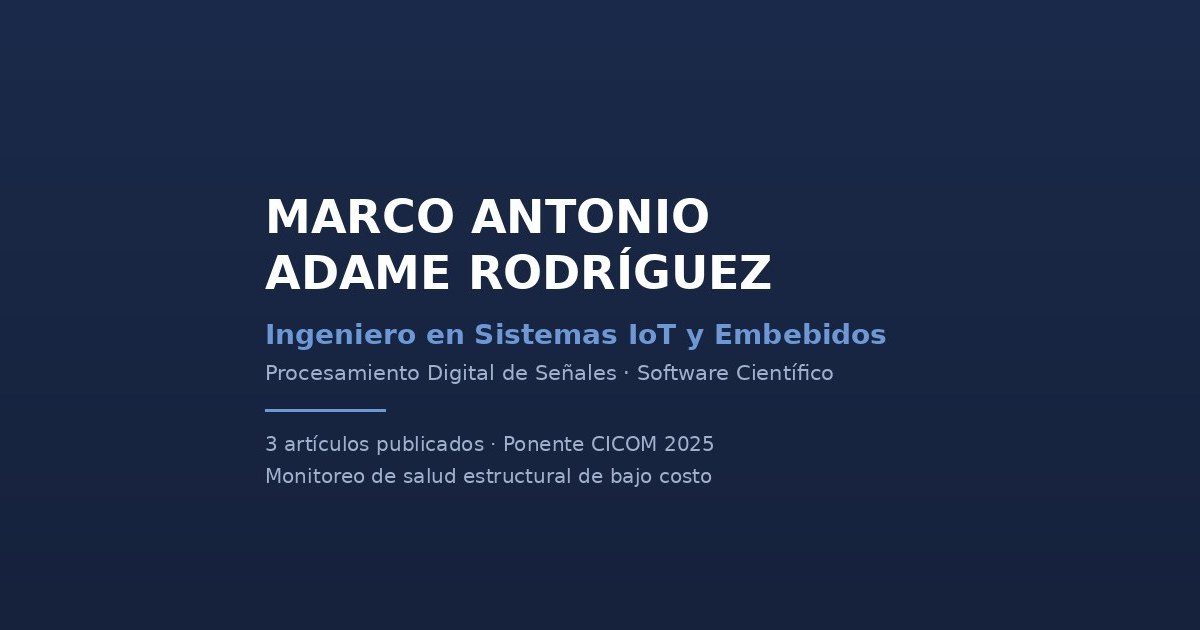
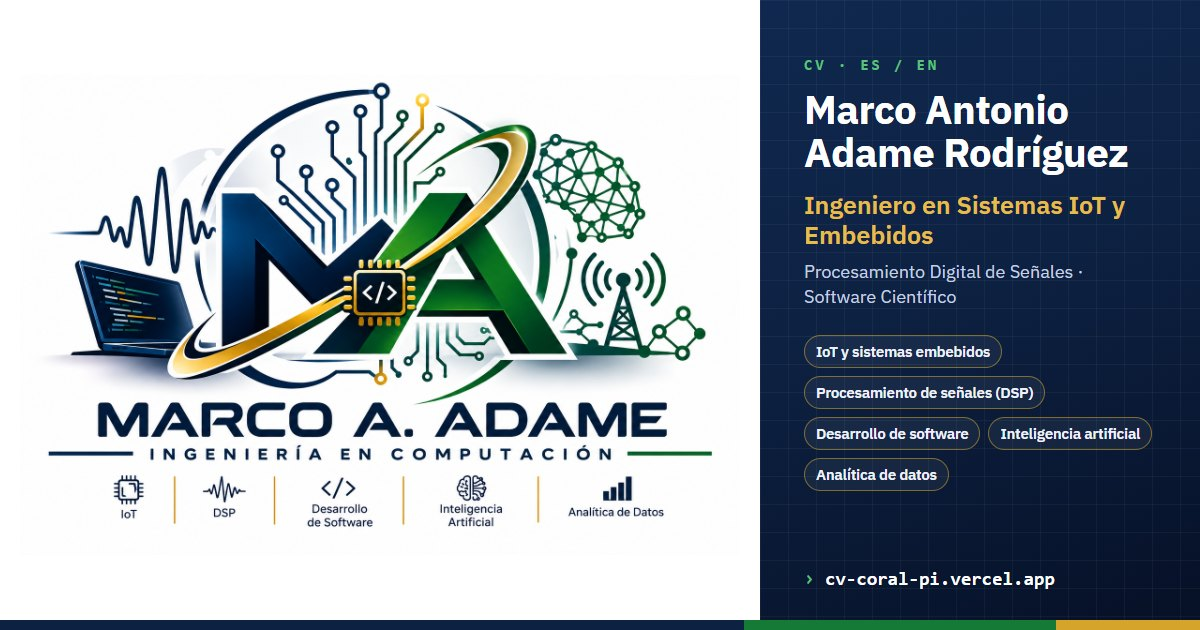
CV: og.jpg rehecha con el logotipo nuevo
- Logotipo a la izquierda; nombre, cargo, especialidad, áreas de enfoque y dirección a la derecha.
- herramientas/og.mjs la genera con Chrome desde el logotipo, la fuente y datos/es.json.
- Prueba: JPEG de 1200x630 y menos de 300 KB.

diff --git a/tests/humo.ts b/tests/humo.ts
@@ -201,6 +201,18 @@ for (const f of ['cv-es.pdf', 'cv-en.pdf', 'cv-es-diseno.pdf', 'cv-en-design.pdf
   if (!existsSync(path.join(assets, f))) ok(false, `existe public/assets/${f}`);
 }
 ok(!readdirSync(assets).some((f) => f.startsWith('foto')), 'no hay archivos de foto en public/assets/');
+// og.jpg (la imagen al compartir el enlace): JPEG de 1200×630 y ligero. Se lee el tamaño del
+// marcador SOF del JPEG; herramientas/og.mjs la genera.
+const og = readFileSync(path.join(assets, 'og.jpg'));
+let ogAncho = 0, ogAlto = 0;
+for (let i = 2; i < og.length - 9;) {
+  if (og[i] !== 0xff) { i++; continue; }
+  const m = og[i + 1];
+  if (m >= 0xc0 && m <= 0xc3) { ogAlto = og.readUInt16BE(i + 5); ogAncho = og.readUInt16BE(i + 7); break; }
+  i += 2 + og.readUInt16BE(i + 2);
+}
+ok(og[0] === 0xff && og[1] === 0xd8 && ogAncho === 1200 && ogAlto === 630 && og.length < 300 * 1024,
+  `og.jpg es un JPEG de 1200×630 de menos de 300 KB (${ogAncho}×${ogAlto}, ${Math.round(og.length / 1024)} KB)`);
 // Lo que style.css pide con url(…?v=hash) se guarda un año: la huella debe ser la del archivo actual.
 const css = readFileSync(path.join(assets, 'style.css'), 'utf8');
 const urlsCss = [...css.matchAll(/url\("([\w./-]+)\?v=([0-9a-f]{8})"\)/g)];

diff --git a/CHANGELOG.md b/CHANGELOG.md
@@ -13,6 +13,16 @@ versiones 1.0.0 a 2.3.0 se etiquetaron después, sobre los commits de `main` que
 
 ## [Sin publicar]
 
+### Cambiado
+
+- **Imagen para compartir** (`og.jpg`, la que muestran LinkedIn, WhatsApp, X, etc.): rehecha con
+  el logotipo nuevo a la izquierda y, sobre el azul marino con retícula, el nombre, el cargo en
+  dorado, la especialidad, las cinco áreas de enfoque y la dirección del sitio; abajo, la línea
+  azul-verde-dorada del logotipo. 1200×630, 128 KB.
+- `herramientas/og.mjs` la genera con Chrome desde el logotipo, la fuente del sitio y
+  `datos/es.json`: si cambia el cargo, basta con volver a correrlo.
+- Prueba: `og.jpg` es un JPEG de 1200×630 de menos de 300 KB.
+
 ## [3.0.0] · 25 de noviembre de 2026
 
 Hallazgos del pentest del 25 de noviembre de 2026 (0 críticos, 0 altos, 0 medios). Es versión

diff --git a/README.md b/README.md
@@ -43,7 +43,7 @@ Bilingüe (español e inglés), servido desde una única fuente de datos, con en
 ├── public/assets/         # CSS, cv.js, tema.js, fuente, PDFs e imágenes
 ├── herramientas/
 │   ├── rendercv.ts        # genera los PDF y los YAML por vacante
-│   ├── iconos.mjs         # genera el sprite iconos.svg y lib/iconos.ts
+│   ├── og.mjs             # genera public/assets/og.jpg (imagen al compartir el enlace)
 │   └── versiones.ts       # huella ?v= de cada archivo (corre antes de dev y build)
 ├── tests/humo.ts          # pruebas de humo contra la versión compilada
 ├── tests/navegador/       # pruebas en navegador de las funciones con JavaScript
